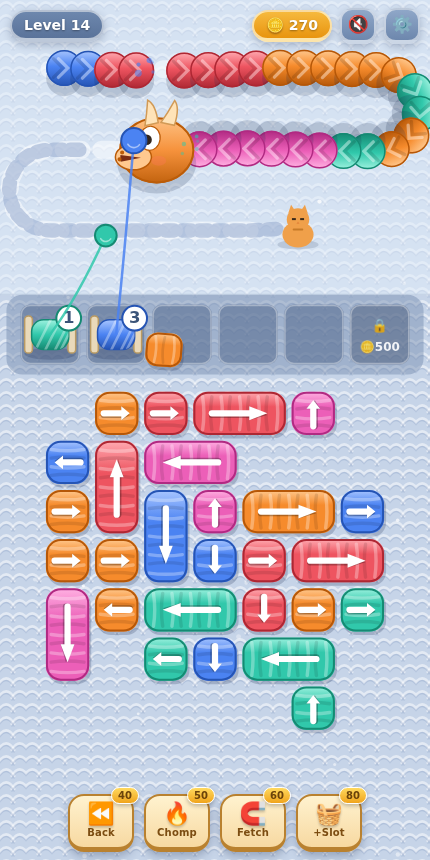
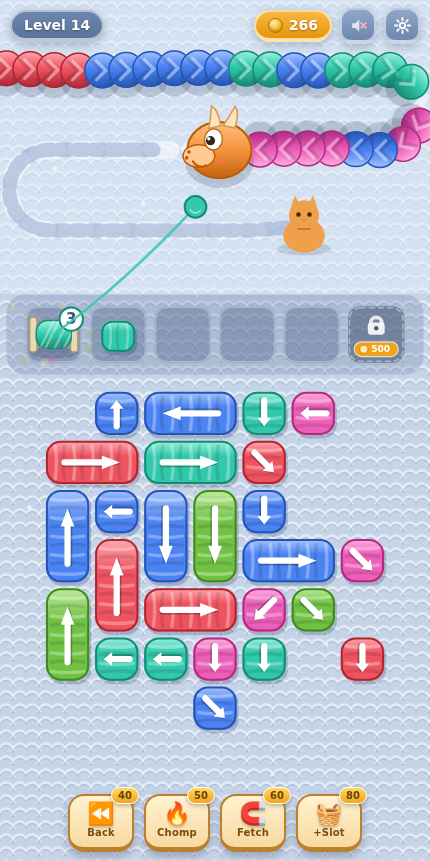
True offscreen entry, diagonal arrows at high levels, UI tidy
The path now begins beyond the left screen edge, so the dragon's body
visibly crawls in from offscreen instead of popping into existence at
the path's start; winding only targets wool that is actually on screen.

From level 9 a growing share of single bolts get diagonal arrows
(8 directions), with exit checks, edge-bias, extraction flights, and
arrow rendering generalized to diagonal vectors.

UI tidy-up: locked tray slot redrawn with a vector padlock and price
pill (canvas emoji were invisible on some phones), crisp SVG icons for
sound/settings, CSS coin in the HUD pill, softer tray styling, bigger
kitty, better dragon head proportions, and a gentler coin economy.

Claude-Session: https://claude.ai/code/session_01FGeGpZbh5voJFieR2Ls51R

diff --git a/index.html b/index.html
@@ -23,10 +23,14 @@
     border-radius:999px; padding:5px 12px; font-size:14px; text-shadow:0 1px 2px rgba(0,0,0,.35);
     box-shadow:0 3px 8px rgba(20,35,70,.25); }
   .pill.coins { background:linear-gradient(#f6b93d,#e8940f); border-color:rgba(255,248,220,.7); margin-left:auto; }
+  .coin-ic { width:15px; height:15px; border-radius:50%; flex:none;
+    background:radial-gradient(circle at 35% 30%, #ffeeb0, #f5c02c 55%, #d78e08);
+    border:1.5px solid #a86c07; box-shadow:inset 0 -2px 2px rgba(0,0,0,.18); }
   .iconbtn { pointer-events:auto; width:36px; height:36px; border-radius:12px; border:2px solid rgba(255,255,255,.55);
-    border-bottom-width:4px; background:linear-gradient(#8fa7c8,#6d87ad); color:#fff; font-size:17px; line-height:30px;
-    text-align:center; cursor:pointer; box-shadow:0 3px 8px rgba(20,35,70,.25); }
+    border-bottom-width:4px; background:linear-gradient(#8fa7c8,#6d87ad); cursor:pointer;
+    display:flex; align-items:center; justify-content:center; box-shadow:0 3px 8px rgba(20,35,70,.25); }
   .iconbtn:active { transform:translateY(2px); border-bottom-width:2px; }
+  .iconbtn svg { display:block; }
 
   /* ---------- Boosters ---------- */
   #boosters { position:absolute; left:0; right:0; bottom:calc(env(safe-area-inset-bottom, 0px) + 8px);
@@ -84,9 +88,9 @@
     <canvas id="cv"></canvas>
     <div id="hud">
       <div class="pill" id="lvlPill">Level 1</div>
-      <div class="pill coins" id="coinPill">🪙 0</div>
-      <button class="iconbtn" id="muteBtn">🔊</button>
-      <button class="iconbtn" id="gearBtn">⚙</button>
+      <div class="pill coins" id="coinPill"><span class="coin-ic"></span><span id="coinVal">0</span></div>
+      <button class="iconbtn" id="muteBtn" aria-label="Sound"></button>
+      <button class="iconbtn" id="gearBtn" aria-label="Settings"></button>
     </div>
     <div id="boosters">
       <div class="boost" data-act="back"><span class="cost">40</span><div class="em">⏪</div><div class="nm">Back</div></div>
@@ -120,7 +124,9 @@ const easeOutCubic = t=>1-Math.pow(1-t,3);
 const easeInQuad   = t=>t*t;
 const easeOutBack  = t=>{ const c=1.7; return 1+(c+1)*Math.pow(t-1,3)+c*Math.pow(t-1,2); };
 const key = (c,r)=>c+','+r;
-const DIRS = { up:[0,-1], down:[0,1], left:[-1,0], right:[1,0] };
+const DIRS = { up:[0,-1], down:[0,1], left:[-1,0], right:[1,0],
+               ul:[-1,-1], ur:[1,-1], dl:[-1,1], dr:[1,1] };
+const ORTHO=['up','down','left','right'], DIAG=['ul','ur','dl','dr'];
 
 // ---------- persistence ----------
 const SAVE_KEY='woolcrush_v1';
@@ -210,7 +216,8 @@ function buildPath(){
   const raw=[];
   const seg=(x0,y0,x1,y1)=>{ const n=28; for(let i=0;i<=n;i++) raw.push([lerp(x0,x1,i/n), lerp(y0,y1,i/n)]); };
   const arc=(cx,cy,r,a0,a1)=>{ const n=24; for(let i=1;i<=n;i++){ const t=lerp(a0,a1,i/n); raw.push([cx+Math.cos(t)*r, cy+Math.sin(t)*r]); } };
-  seg(mx, top, a.w-mx, top);
+  // the path begins beyond the left edge so the body truly crawls in from offscreen
+  seg(-a.w*0.18, top, a.w-mx, top);
   arc(a.w-mx, top+R1, R1, -Math.PI/2, Math.PI/2);
   seg(a.w-mx, mid, mx, mid);
   arc(mx, mid+R2, R2, -Math.PI/2, -Math.PI*1.5);
@@ -220,7 +227,9 @@ function buildPath(){
     if(i>0){ const dx=raw[i][0]-raw[i-1][0], dy=raw[i][1]-raw[i-1][1]; const d=Math.hypot(dx,dy); if(d<0.4) continue; L+=d; cum.push(L); }
     pts.push(raw[i]);
   }
-  path={pts,cum,len:L};
+  let entryS=0;
+  for(let i=0;i<pts.length;i++) if(pts[i][0]>=0){ entryS=cum[i]; break; }
+  path={pts,cum,len:L,entryS};
 }
 function posAt(s){
   s=clamp(s,0,path.len);
@@ -237,6 +246,7 @@ function targetCells(L){ return L>=14 ? 52-randi(0,5) : 13+3*L; }
 function creepFor(L){ return 0.005 + Math.min(0.019, 0.0009*L); }
 function pushFactorFor(L){ return Math.max(0.22, 0.55-0.011*L); }
 function nColorsFor(L){ return L>=24 ? 7 : clamp(3+Math.floor(L/5),3,6); }
+function diagChanceFor(L){ return L<9 ? 0 : Math.min(0.35, 0.04+(L-8)*0.03); }
 function runLenFor(L){ return L<6?randi(2,3) : L<16?randi(1,3) : randi(1,2); }
 function windowFor(L,slots){ return clamp(1+Math.floor(L/6),1,Math.min(2,slots-1)); }
 function doubleRatioFor(L){ return Math.min(0.25+L*0.03,0.6); }
@@ -276,7 +286,7 @@ function maskFor(shape,target){
   return {mask, cols, rows};
 }
 
-function tileMask(mask, dblRatio, edgeBias, cols, rows){
+function tileMask(mask, dblRatio, edgeBias, cols, rows, diagChance){
   const cells=shuffle([...mask].map(k=>k.split(',').map(Number)));
   const used=new Set(), pieces=[]; let id=1;
   for(const [c,r] of cells){
@@ -294,15 +304,20 @@ function tileMask(mask, dblRatio, edgeBias, cols, rows){
       }
     }
     if(!placed){ used.add(key(c,r));
-      pieces.push({id:id++, cells:[{c,r}], len:1, axis:null, dir:null, color:0, units:2, state:'board'}); }
+      pieces.push({id:id++, cells:[{c,r}], len:1, axis:null, dir:null, color:0, units:2, state:'board', diag:Math.random()<diagChance}); }
   }
   for(const p of pieces) rollDirBiased(p, edgeBias, cols, rows);
   return pieces;
 }
 function allowedDirs(p){
-  return p.len===2 ? (p.axis==='h'?['left','right']:['up','down']) : ['up','down','left','right'];
+  return p.len===2 ? (p.axis==='h'?['left','right']:['up','down']) : (p.diag?DIAG:ORTHO);
 }
 function rollDir(p){ p.dir=choice(allowedDirs(p)); }
+function stepsToEdge(cl,dc,dr,cols,rows){
+  const sx=dc>0?cols-1-cl.c : dc<0?cl.c : 1e9;
+  const sy=dr>0?rows-1-cl.r : dr<0?cl.r : 1e9;
+  return Math.min(sx,sy);
+}
 function rollDirBiased(p, bias, cols, rows){
   const dirs=allowedDirs(p);
   if(Math.random()>=bias){ p.dir=choice(dirs); return; }
@@ -311,10 +326,7 @@ function rollDirBiased(p, bias, cols, rows){
   for(const d of dirs){
     const [dc,dr]=DIRS[d];
     let dist=1e9;
-    for(const cl of p.cells){
-      const steps=dc>0?cols-1-cl.c : dc<0?cl.c : dr>0?rows-1-cl.r : cl.r;
-      dist=Math.min(dist,steps);
-    }
+    for(const cl of p.cells) dist=Math.min(dist,stepsToEdge(cl,dc,dr,cols,rows));
     if(dist<bestD){ bestD=dist; best=[d]; }
     else if(dist===bestD) best.push(d);
   }
@@ -351,7 +363,7 @@ function genLevel(L, slots){
   for(let attempt=0;attempt<40;attempt++){
     const pool=shapePool(L);
     const {mask,cols,rows}=maskFor(pool[(L-1+attempt)%pool.length], targetCells(L));
-    const pieces=tileMask(mask, doubleRatioFor(L), edgeBiasFor(L), cols, rows);
+    const pieces=tileMask(mask, doubleRatioFor(L), edgeBiasFor(L), cols, rows, diagChanceFor(L));
     const order=simOrder(pieces, cols, rows);
     if(!order) continue;
     // colors assigned along the feasible order, in runs that shrink at higher levels
@@ -404,7 +416,7 @@ function capacity(){ return permSlots() + (G.tempSlot?1:0); }
 function occupancyPieces(){ return G.pieces.filter(p=>['extract','fly','tray'].includes(p.state)); }
 // arc-length position of body segment i (0 = right behind the head)
 function segS(i,seg){ return G.front-G.thick*0.4-(i+0.5)*G.segLen-(seg?seg.ofs:0); }
-function segVisible(i){ return segS(i)>=G.segLen*0.4; }
+function segVisible(i){ return segS(i)>=path.entryS+G.segLen*0.4; }
 function visibleColors(){
   const out=[];
   for(let i=0;i<G.snake.length && segVisible(i);i++) out.push(G.snake[i].c);
@@ -457,11 +469,11 @@ function traySlots(){
   const lockedLv5 = G.level<6 ? 1 : 0;
   const locked500 = save.slot5 ? 0 : 1;
   const total=cap+lockedLv5+locked500;
-  const a=A.tray, s=Math.min(a.h*0.92, (a.w*0.92)/total - 6);
-  const w=total*(s+6)-6, x0=a.x+(a.w-w)/2, y=a.y+(a.h-s)/2;
+  const a=A.tray, s=Math.min(a.h*0.9, (a.w*0.9)/total - 8, 64);
+  const w=total*(s+8)-8, x0=a.x+(a.w-w)/2, y=a.y+(a.h-s)/2;
   const out=[];
   for(let i=0;i<total;i++){
-    out.push({ x:x0+i*(s+6), y, s,
+    out.push({ x:x0+i*(s+8), y, s,
       kind: i<cap ? 'open' : (lockedLv5 && i===cap ? 'lv5' : 'coin') });
   }
   return out;
@@ -472,14 +484,14 @@ function freeSlotIndex(){
   for(let i=0;i<capacity();i++) if(!used.has(i)) return i;
   return null;
 }
-function headR(){ return clamp(G.thick*0.85+7,17,38); }
+function headR(){ return clamp(G.thick*0.78+5,15,33); }
 function headPos(){
   const p=posAt(G.front), R=headR();
   return { x:p.x+Math.cos(p.ang)*R*0.6, y:p.y+Math.sin(p.ang)*R*0.6, ang:p.ang };
 }
 function catPos(){
   const p=posAt(catParam());
-  return { x:p.x+Math.cos(p.ang)*46, y:p.y+Math.sin(p.ang)*46-2 };
+  return { x:p.x+Math.cos(p.ang)*52, y:p.y+Math.sin(p.ang)*52-3 };
 }
 
 // ---------- interaction ----------
@@ -552,7 +564,7 @@ function completeWind(p){
   p.units--;
   if(p.units<=0){                        // spool is full: pops off, frees the slot
     p.state='gone'; p.slot=null;
-    save.coins+=2; persist();
+    save.coins+=1; persist();
     sfx.coin(); popFx(p);
     compactTray();
   }
@@ -578,7 +590,7 @@ function winCheck(){
 }
 function win(){
   G.phase='win';
-  const reward=30+Math.min(40,2*G.level)+(G.usedAnyBoost?0:10);
+  const reward=25+Math.min(35,2*G.level)+(G.usedAnyBoost?0:10);
   save.coins+=reward; save.level=G.level+1; persist();
   sfx.win(); buzz([30,40,60]);
   for(let i=0;i<90;i++) G.confetti.push({x:rand(0,W),y:rand(-H*0.3,0),vx:rand(-30,30),vy:rand(40,140),r:rand(2.5,5),c:PALETTE[randi(0,7)].m,t:0,dur:rand(1.2,2.2),sp:rand(2,7)});
@@ -663,10 +675,15 @@ document.getElementById('boosters').addEventListener('pointerdown',e=>{
 
 // ---------- HUD / overlay ----------
 const $=id=>document.getElementById(id);
+const ICONS={
+  sndOn:'<svg width="19" height="19" viewBox="0 0 24 24"><path d="M4 9v6h4l5 4.5v-15L8 9H4z" fill="#fff"/><path d="M16.5 8.5a5 5 0 010 7" stroke="#fff" stroke-width="2.2" fill="none" stroke-linecap="round"/></svg>',
+  sndOff:'<svg width="19" height="19" viewBox="0 0 24 24"><path d="M4 9v6h4l5 4.5v-15L8 9H4z" fill="#fff" opacity="0.75"/><path d="M15.5 9L21 14.5M21 9l-5.5 5.5" stroke="#ffb3b3" stroke-width="2.4" stroke-linecap="round"/></svg>',
+  gear:'<svg width="19" height="19" viewBox="0 0 24 24" fill="none" stroke="#fff" stroke-width="2.3" stroke-linecap="round"><circle cx="12" cy="12" r="3.4"/><path d="M12 2.5v3M12 18.5v3M2.5 12h3M18.5 12h3M5.3 5.3l2.1 2.1M16.6 16.6l2.1 2.1M18.7 5.3l-2.1 2.1M7.4 16.6l-2.1 2.1"/></svg>',
+};
 function updateHud(){
   $('lvlPill').textContent='Level '+G.level;
-  $('coinPill').textContent='🪙 '+save.coins;
-  $('muteBtn').textContent=save.mute?'🔇':'🔊';
+  $('coinVal').textContent=save.coins;
+  $('muteBtn').innerHTML=save.mute?ICONS.sndOff:ICONS.sndOn;
   document.querySelectorAll('.boost').forEach(b=>{
     const cost=PRICES[b.dataset.act==='slot'?'slot':b.dataset.act];
     b.classList.toggle('off', G.phase!=='play'||save.coins<cost||(b.dataset.act==='slot'&&G.usedSlotBoost));
@@ -881,7 +898,7 @@ function drawBolt(x,y,w,h,colIdx,dir,units,opts={}){
   if(dir){
     const [dc,dr]=DIRS[dir];
     const cx=x+w/2, cy=y+h/2;
-    const L=(dir==='left'||dir==='right'?w:h)*0.30;
+    const L=(dc&&dr) ? Math.min(w,h)*0.32 : (dc?w:h)*0.30;
     const hw=Math.min(w,h)*0.16;
     ctx.save();
     ctx.translate(cx,cy); ctx.rotate(Math.atan2(dr,dc));
@@ -1034,7 +1051,7 @@ function drawDragonHead(){
 
 function drawCat(){
   const c=catPos(), danger=dangerFrac();
-  const s=Math.max(13,A.snake.h*0.075);
+  const s=Math.max(16,A.snake.h*0.10);
   const tr=danger>0.68?rand(-1.6,1.6):0;
   const x=c.x+tr, y=c.y+(danger>0.68?rand(-1,1):0);
   ctx.save(); ctx.translate(x,y); ctx.scale(-1,1);
@@ -1097,10 +1114,10 @@ function draw(){
 
   drawCat();
 
-  // snake body, tail first
+  // snake body, tail first (offscreen strip included — it glides in past the edge)
   for(let i=G.snake.length-1;i>=0;i--){
     const s=segS(i,G.snake[i])+Math.sin(G.crawlT*0.9)*G.segLen*0.10;
-    if(s<G.segLen*0.4) continue;
+    if(s<1) continue;
     const p=posAt(s);
     drawSnakeSeg(p.x,p.y,p.ang,G.snake[i].c,i);
   }
@@ -1108,19 +1125,49 @@ function draw(){
 
   // tray
   const slots=traySlots();
-  ctx.fillStyle='rgba(122,144,178,0.5)';
-  rr(A.tray.x+W*0.015,A.tray.y-2,W*0.97,A.tray.h+4,16); ctx.fill();
+  ctx.fillStyle='rgba(122,144,178,0.35)';
+  rr(A.tray.x+W*0.015,A.tray.y-2,W*0.97,A.tray.h+4,18); ctx.fill();
   for(const s of slots){
-    ctx.fillStyle=s.kind==='open'?'rgba(84,106,142,0.55)':'rgba(70,88,120,0.5)';
-    rr(s.x,s.y,s.s,s.s,10); ctx.fill();
-    ctx.strokeStyle='rgba(255,255,255,0.35)'; ctx.lineWidth=1.5;
-    rr(s.x+1,s.y+1,s.s-2,s.s-2,9); ctx.stroke();
-    if(s.kind!=='open'){
-      ctx.fillStyle='rgba(255,255,255,0.9)'; ctx.font=`700 ${Math.max(9,s.s*0.22)}px system-ui`;
+    const cx=s.x+s.s/2;
+    if(s.kind==='open'){
+      ctx.fillStyle='rgba(84,106,142,0.42)';
+      rr(s.x,s.y,s.s,s.s,12); ctx.fill();
+      ctx.strokeStyle='rgba(255,255,255,0.30)'; ctx.lineWidth=1.5;
+      rr(s.x+1,s.y+1,s.s-2,s.s-2,11); ctx.stroke();
+    } else {
+      ctx.fillStyle='rgba(56,72,102,0.5)';
+      rr(s.x,s.y,s.s,s.s,12); ctx.fill();
+      ctx.save();
+      ctx.strokeStyle='rgba(255,255,255,0.4)'; ctx.lineWidth=1.5; ctx.setLineDash([5,4]);
+      rr(s.x+1.5,s.y+1.5,s.s-3,s.s-3,11); ctx.stroke();
+      ctx.restore();
+      // vector padlock (emoji glyphs are unreliable in canvas on some phones)
+      const ps=s.s*0.15, ly=s.y+s.s*0.36;
+      ctx.strokeStyle='rgba(255,255,255,0.8)'; ctx.lineWidth=ps*0.45; ctx.lineCap='round';
+      ctx.beginPath(); ctx.arc(cx,ly-ps*0.45,ps*0.65,Math.PI,0); ctx.stroke();
+      ctx.fillStyle='rgba(255,255,255,0.88)';
+      rr(cx-ps,ly-ps*0.5,ps*2,ps*1.45,ps*0.4); ctx.fill();
+      ctx.fillStyle='rgba(56,72,102,0.9)';
+      ctx.beginPath(); ctx.arc(cx,ly+ps*0.2,ps*0.26,0,7); ctx.fill();
+      // price / unlock label
       ctx.textAlign='center'; ctx.textBaseline='middle';
-      ctx.fillText('🔒',s.x+s.s/2,s.y+s.s*0.36);
-      ctx.font=`800 ${Math.max(8,s.s*0.2)}px system-ui`;
-      ctx.fillText(s.kind==='lv5'?'Lv 6':'🪙500',s.x+s.s/2,s.y+s.s*0.72);
+      if(s.kind==='lv5'){
+        ctx.fillStyle='rgba(255,255,255,0.85)'; ctx.font=`800 ${Math.max(9,s.s*0.2)}px system-ui`;
+        ctx.fillText('Lv 6',cx,s.y+s.s*0.76);
+      } else {
+        const can=save.coins>=PRICES.slot5;
+        const pw=s.s*0.78, ph=Math.max(14,s.s*0.26), py=s.y+s.s*0.76;
+        ctx.fillStyle=can?'#67c257':'#f0a41c';
+        rr(cx-pw/2,py-ph/2,pw,ph,ph/2); ctx.fill();
+        ctx.strokeStyle='rgba(255,255,255,0.7)'; ctx.lineWidth=1.2;
+        rr(cx-pw/2,py-ph/2,pw,ph,ph/2); ctx.stroke();
+        ctx.fillStyle='#ffe9b0';
+        ctx.beginPath(); ctx.arc(cx-pw*0.28,py,ph*0.28,0,7); ctx.fill();
+        ctx.strokeStyle='#c8860a'; ctx.lineWidth=1;
+        ctx.beginPath(); ctx.arc(cx-pw*0.28,py,ph*0.28,0,7); ctx.stroke();
+        ctx.fillStyle='#fff'; ctx.font=`900 ${Math.max(9,ph*0.62)}px system-ui`;
+        ctx.fillText('500',cx+pw*0.1,py+0.5);
+      }
     }
   }
 
@@ -1232,6 +1279,7 @@ function frame(t){
 
 // ---------- boot ----------
 resize();
+$('gearBtn').innerHTML=ICONS.gear;
 updateHud();
 showMenu();
 requestAnimationFrame(frame);

diff --git a/README.md b/README.md
@@ -4,9 +4,9 @@ A knitted-wool puzzle game inspired by *Wool Crush*: pull wool bolts off the boa
 
 Everything lives in a single dependency-free `index.html`. Open it in any browser (works great on phones) and play.
 
-| Level 1 | Level 14 |
+| Level 14 | Level 18 |
 |---|---|
-| ![Level 1](docs/screenshot-level1.png) | ![Level 14](docs/screenshot-level14.png) |
+| ![Level 14](docs/screenshot-level14.png) | ![Level 18](docs/screenshot-level18.png) |
 
 ## How to play
 
@@ -38,6 +38,7 @@ Difficulty ramps with the level number:
 - board grows **~16 → ~52 bolts' worth of cells** (dragon ~32 → ~104 segments)
 - colors **3 → 7**, and same-color runs shorten
 - arrows point outward early, then get increasingly knotted
+- **diagonal arrows** appear from level 9, on more and more bolts
 - harder board shapes (triangle, ring) only appear at higher levels
 
 Progress (level, coins, unlocked slots, sound) is saved in `localStorage`.
